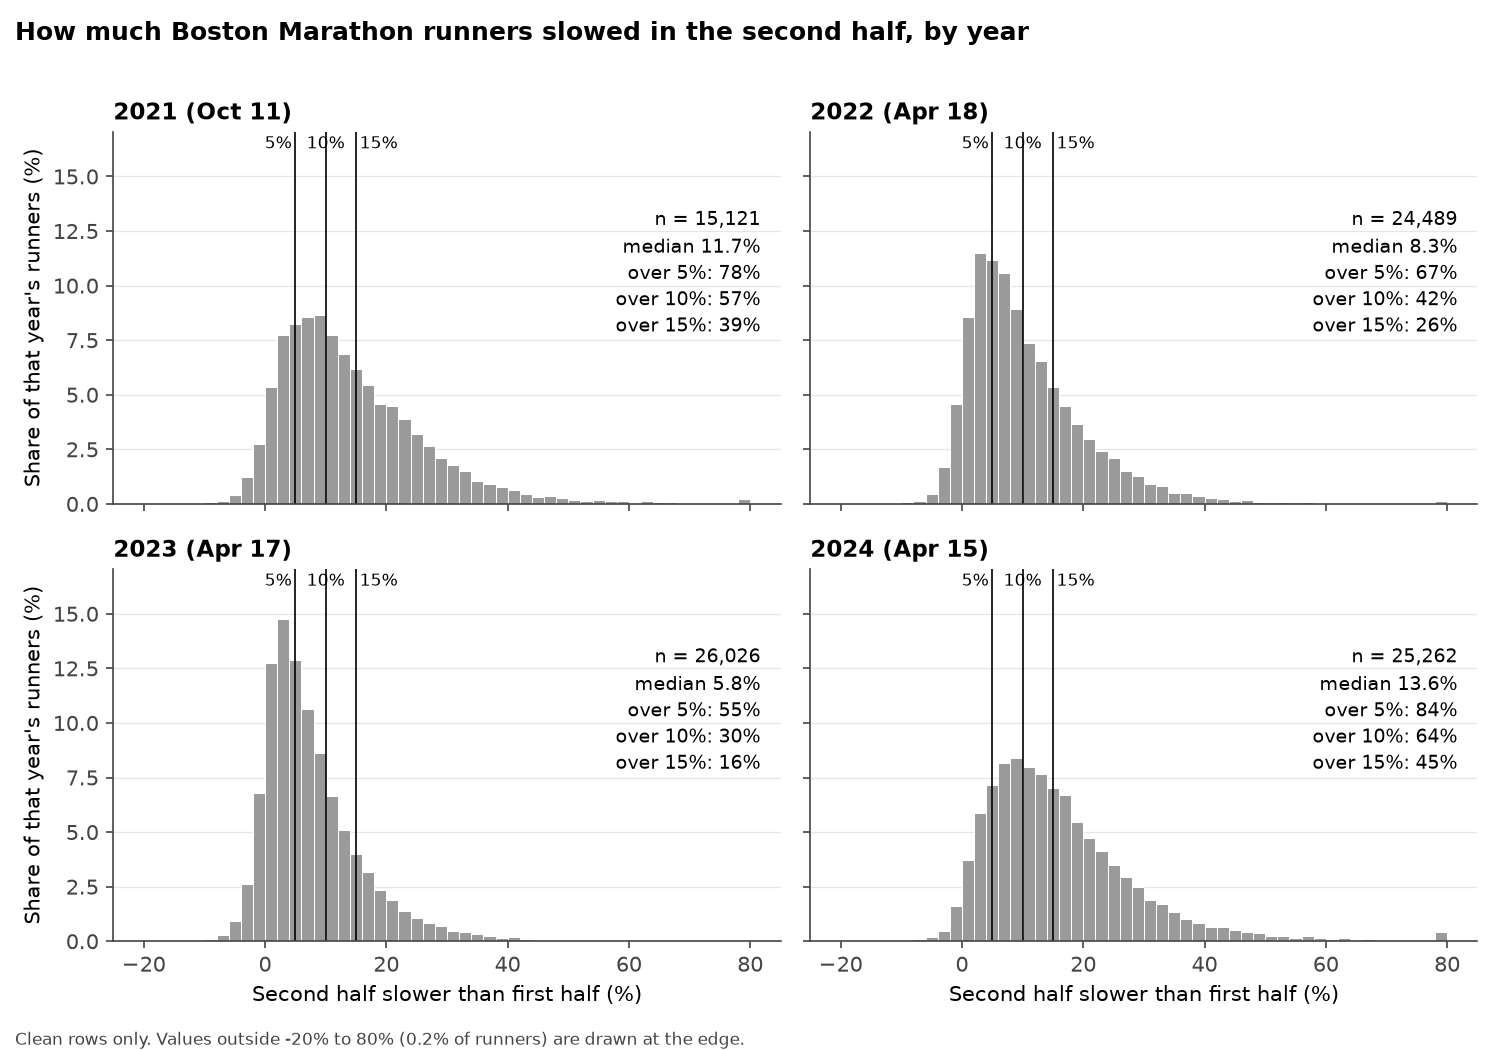
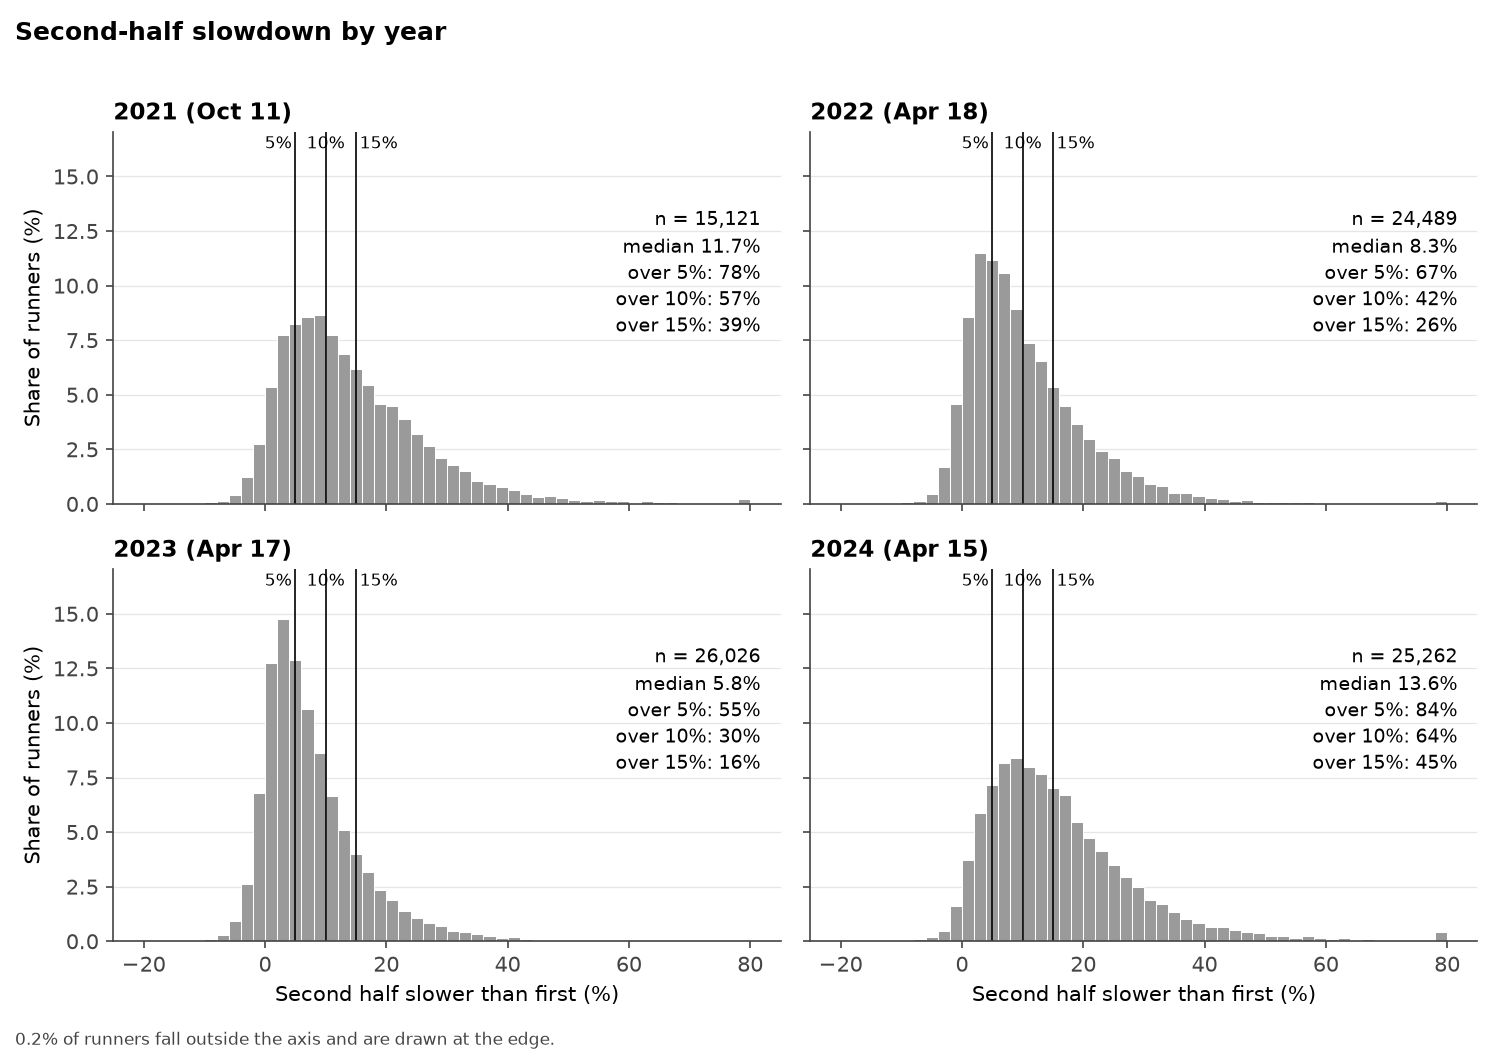
Add pacing profile figure, shorten labels

diff --git a/src/plots.py b/src/plots.py
@@ -5,6 +5,7 @@ from pathlib import Path
 
 import matplotlib
 import matplotlib.pyplot as plt
+import matplotlib.ticker
 import numpy as np
 import pandas as pd
 
@@ -43,12 +44,41 @@ def slowdown_by_year(df: pd.DataFrame, out: Path) -> None:
 
     axes[0, 0].set_ylim(0, axes[0, 0].get_ylim()[1] * 1.1)
     for ax in axes[1]:
-        ax.set_xlabel("Second half slower than first half (%)")
+        ax.set_xlabel("Second half slower than first (%)")
     for ax in axes[:, 0]:
-        ax.set_ylabel("Share of that year's runners (%)")
-    fig.suptitle("How much Boston Marathon runners slowed in the second half, by year", x=0.01, ha="left", fontsize=12, fontweight="bold")
-    fig.text(0.01, 0.005, f"Clean rows only. Values outside {X_RANGE[0]}% to {X_RANGE[1]}% ({outside:.1f}% of runners) are drawn at the edge.", fontsize=8, color="#444444")
+        ax.set_ylabel("Share of runners (%)")
+    fig.suptitle("Second-half slowdown by year", x=0.01, ha="left", fontsize=12, fontweight="bold")
+    fig.text(0.01, 0.005, f"{outside:.1f}% of runners fall outside the axis and are drawn at the edge.", fontsize=8, color="#444444")
     fig.tight_layout(rect=(0, 0.02, 1, 0.97))
+    fig.savefig(out, dpi=150)
+    plt.close(fig)
+
+
+def pacing_profiles(df: pd.DataFrame, out: Path, cutoff: int = 15) -> None:
+    segments = ["pace_0_5k", "pace_5_10k", "pace_10_15k", "pace_15_20k"]
+    labels = ["0-5K", "5-10K", "10-15K", "15-20K"]
+    bands = [(70, 80), (80, 90), (90, 100), (100, 110), (110, 120), (120, 135)]
+    half_min = df["HALF"] / 60
+    fig, axes = plt.subplots(2, 3, figsize=(11, 6.5), sharex=True)
+
+    for ax, (lo, hi) in zip(axes.flat, bands):
+        band = df[(half_min >= lo) & (half_min < hi)]
+        for flag, color, name in [(1, "black", f"slowed {cutoff}%+"), (0, "#999999", f"slowed under {cutoff}%")]:
+            g = band[band[f"slowed_{cutoff}"] == flag][segments]
+            med, q1, q3 = g.median(), g.quantile(0.25), g.quantile(0.75)
+            ax.fill_between(labels, q1, q3, color=color, alpha=0.12, linewidth=0)
+            ax.plot(labels, med, color=color, linewidth=2, marker="o", markersize=5, label=f"{name} (n = {len(g):,})")
+        ax.set_title(f"Halfway {lo}-{hi} min", loc="left")
+        ax.legend(frameon=False, fontsize=8, loc="upper left")
+        ax.yaxis.set_major_formatter(matplotlib.ticker.FuncFormatter(lambda v, _: f"{int(v // 60)}:{int(v % 60):02d}"))
+        ax.grid(axis="y", color="#e6e6e6", linewidth=0.6)
+        ax.set_axisbelow(True)
+
+    for ax in axes[:, 0]:
+        ax.set_ylabel("Pace (min/km)")
+    fig.suptitle("First-half pace by 5K segment, grouped by halfway time", x=0.01, ha="left", fontsize=12, fontweight="bold")
+    fig.text(0.01, 0.005, "Line is the median, band is the 25th to 75th percentile. 2021-2024 pooled. Y range differs by panel.", fontsize=8, color="#444444")
+    fig.tight_layout(rect=(0, 0.02, 1, 0.96))
     fig.savefig(out, dpi=150)
     plt.close(fig)
 
@@ -60,8 +90,9 @@ def main() -> int:
     df = pd.read_csv(FEATURES_FILE)
     FIGURES_DIR.mkdir(exist_ok=True)
 
-    slowdown_by_year(df, FIGURES_DIR / "slowdown_by_year.png")
-    print(f"Wrote {FIGURES_DIR / 'slowdown_by_year.png'}")
+    for name, fn in [("slowdown_by_year.png", slowdown_by_year), ("pacing_profiles.png", pacing_profiles)]:
+        fn(df, FIGURES_DIR / name)
+        print(f"Wrote {FIGURES_DIR / name}")
     return 0
 
 
